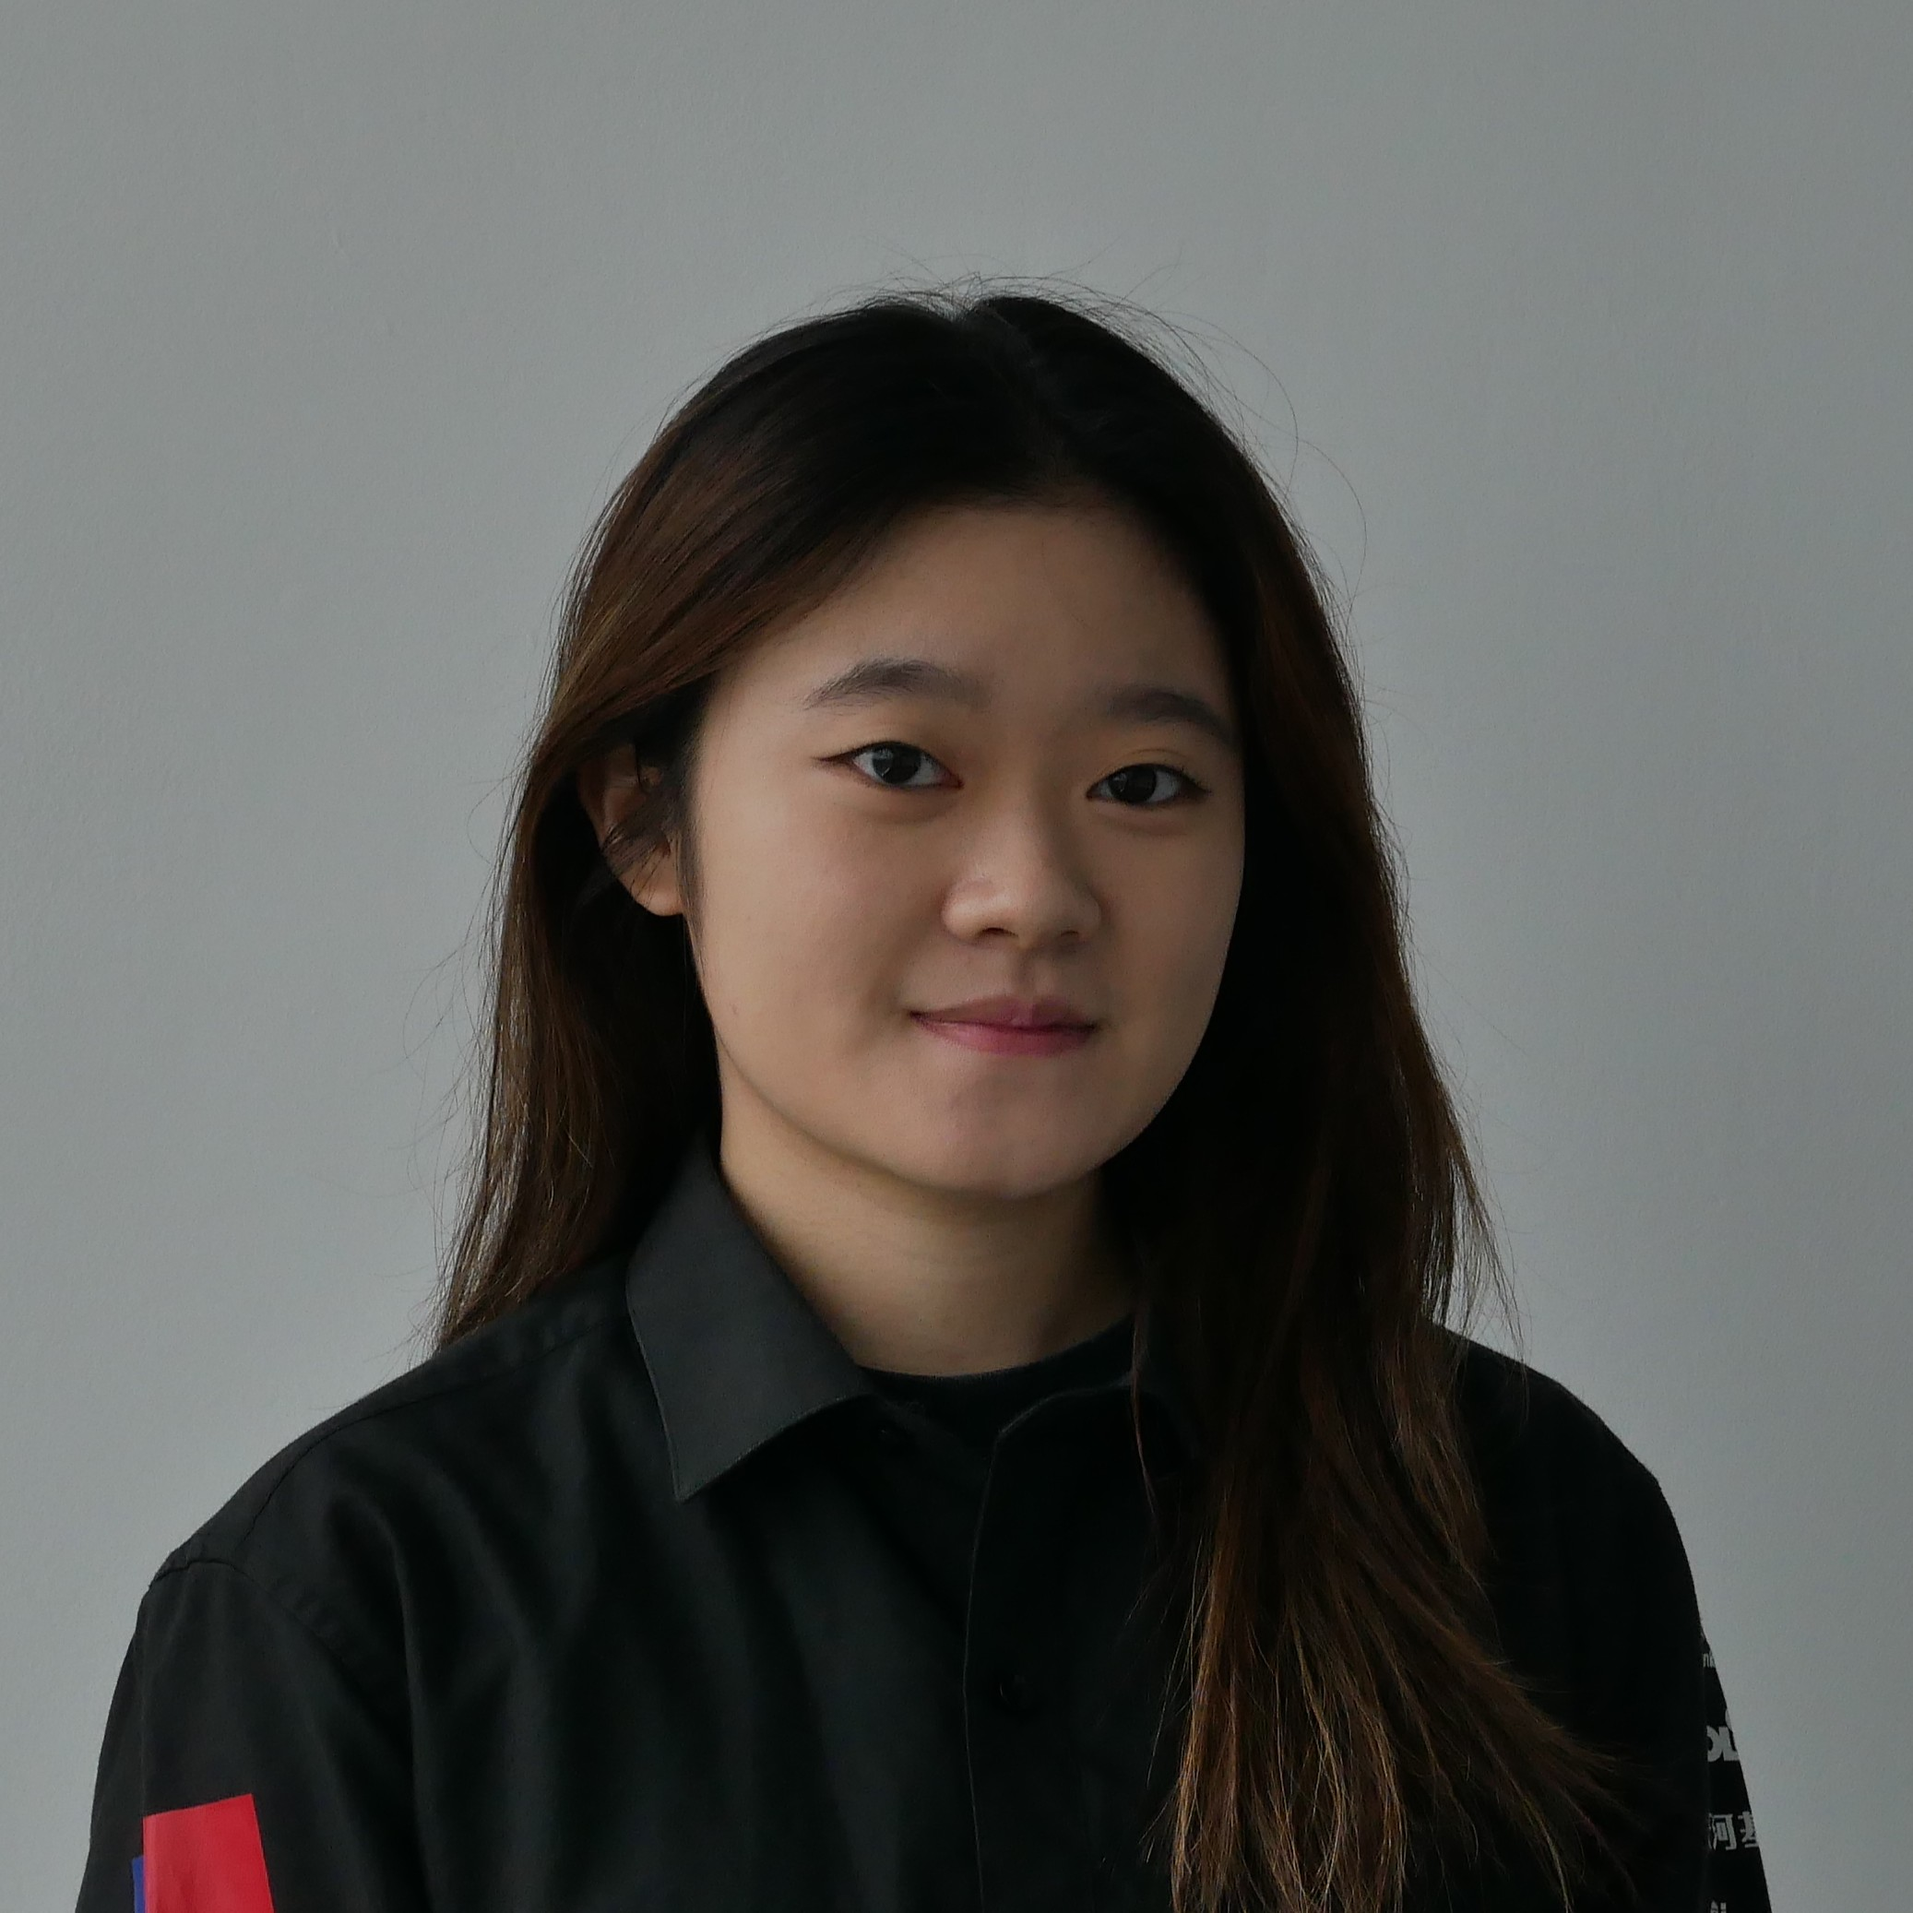
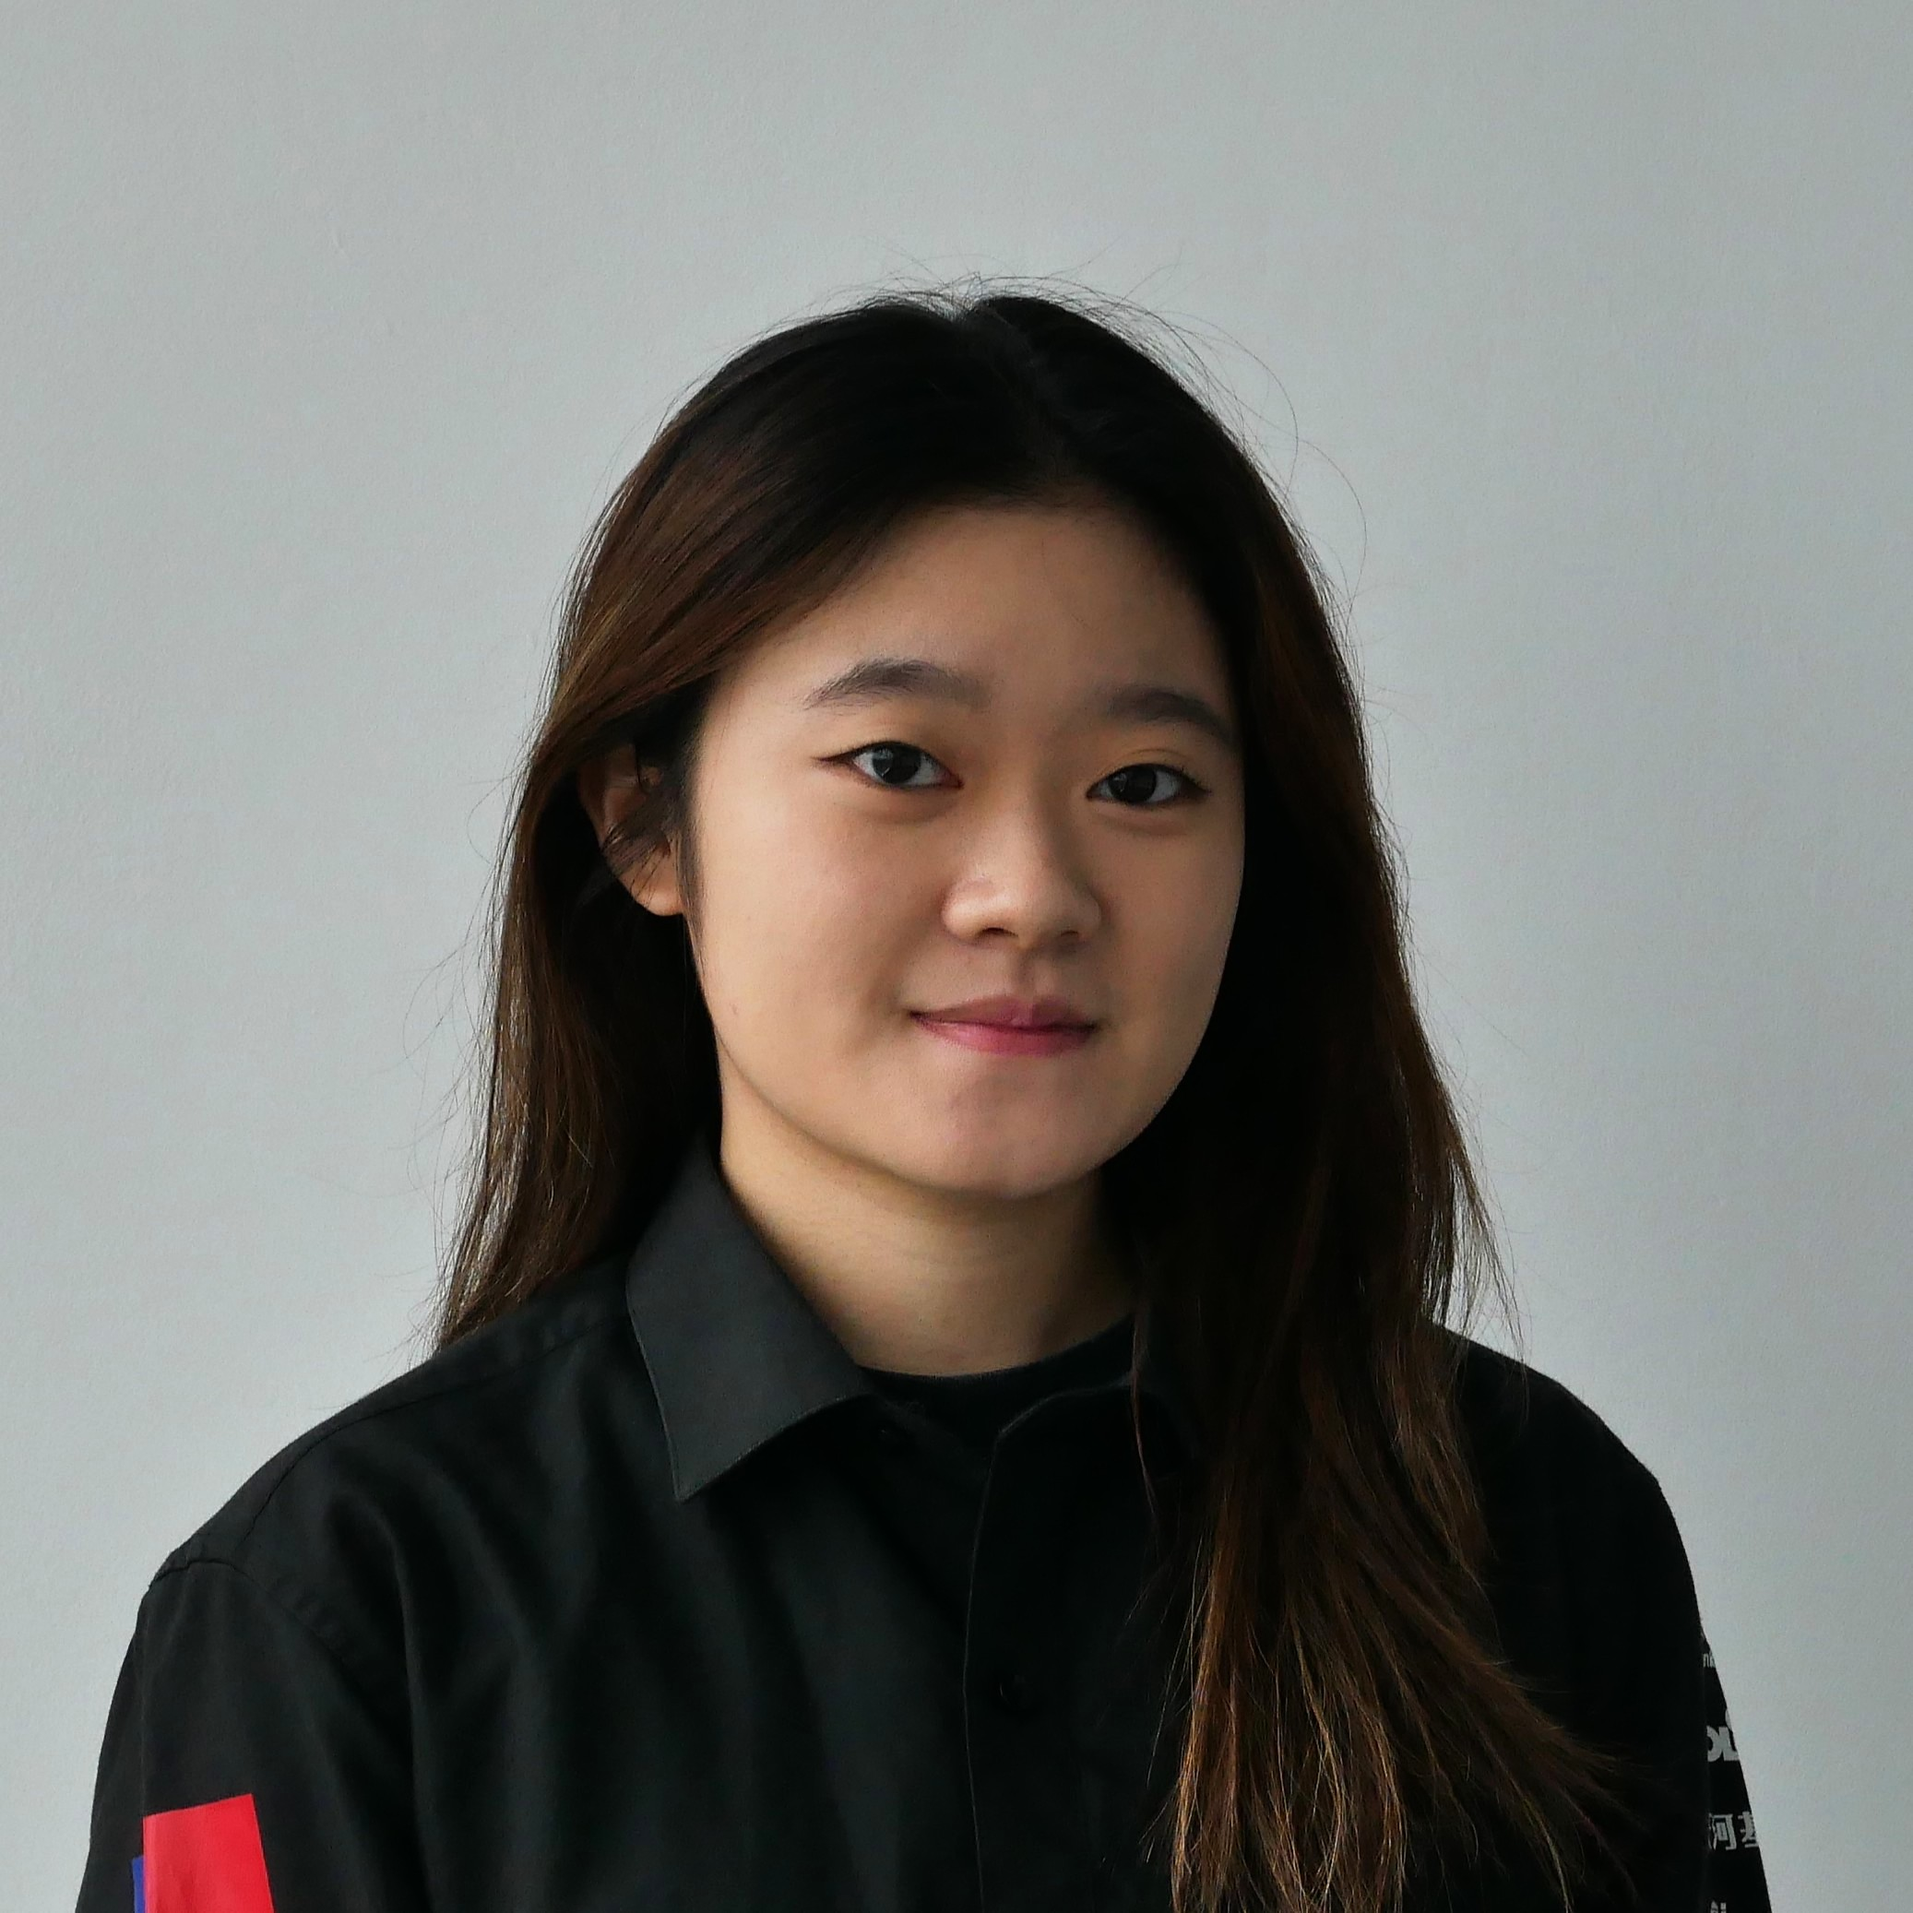
feat: update about.html

diff --git a/about.html b/about.html
@@ -106,19 +106,24 @@
                 <h2>桑維祥</h2>
             </div>
             <div class="member">
-                <img src="./img/members/shark.png">
+                <img src="./img/members/2025/ed1-1.JPG">
                 <h3>電力組 組長</h3>
                 <h2>胡玳寧</h2>
             </div>
             <div class="member">
-                <img src="./img/members/shark.png">
+                <img src="./img/members/2025/ed2-1.jpg">
                 <h3>電力組 組長</h3>
                 <h2>戚羽欣</h2>
             </div>
             <div class="member">
-                <img src="./img/members/shark.png">
+                <img src="./img/members/2025/md2-1.JPG">
                 <h3>商業組 組長</h3>
                 <h2>蔡裕禾</h2>
+            </div>
+            <div class="member">
+                <img src="./img/members/2025/md1-1.JPG">
+                <h3>商業組 組長</h3>
+                <h2>柯昱亘</h2>
             </div>
             <hr>
             <a href="javascript:void(0)" onclick="toggleTable()">
